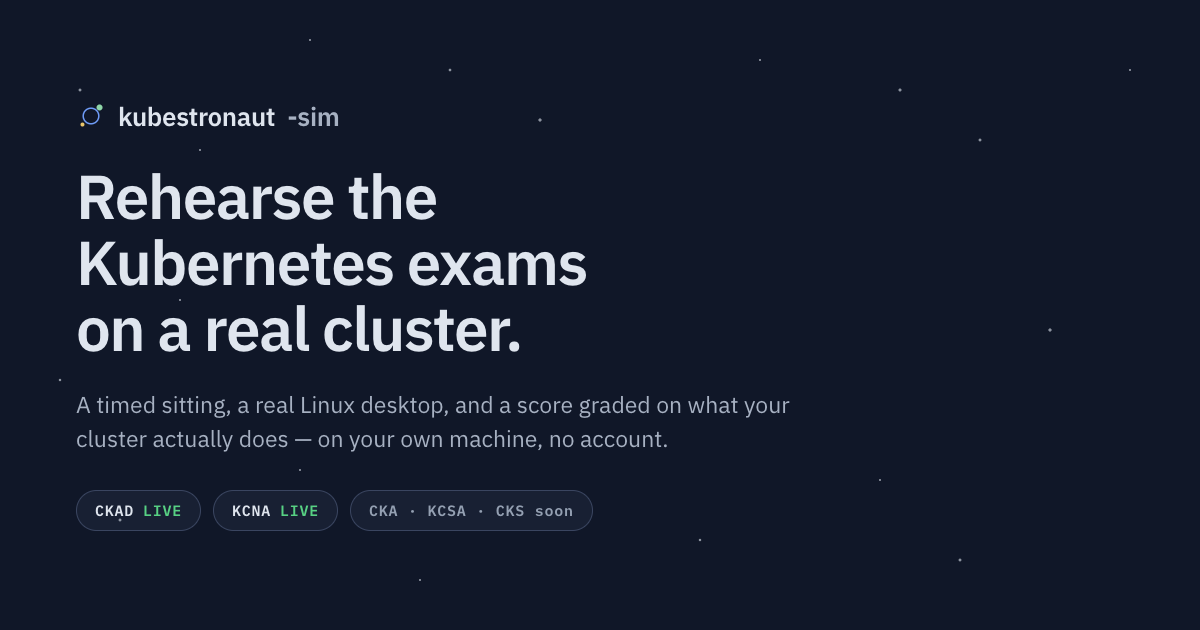
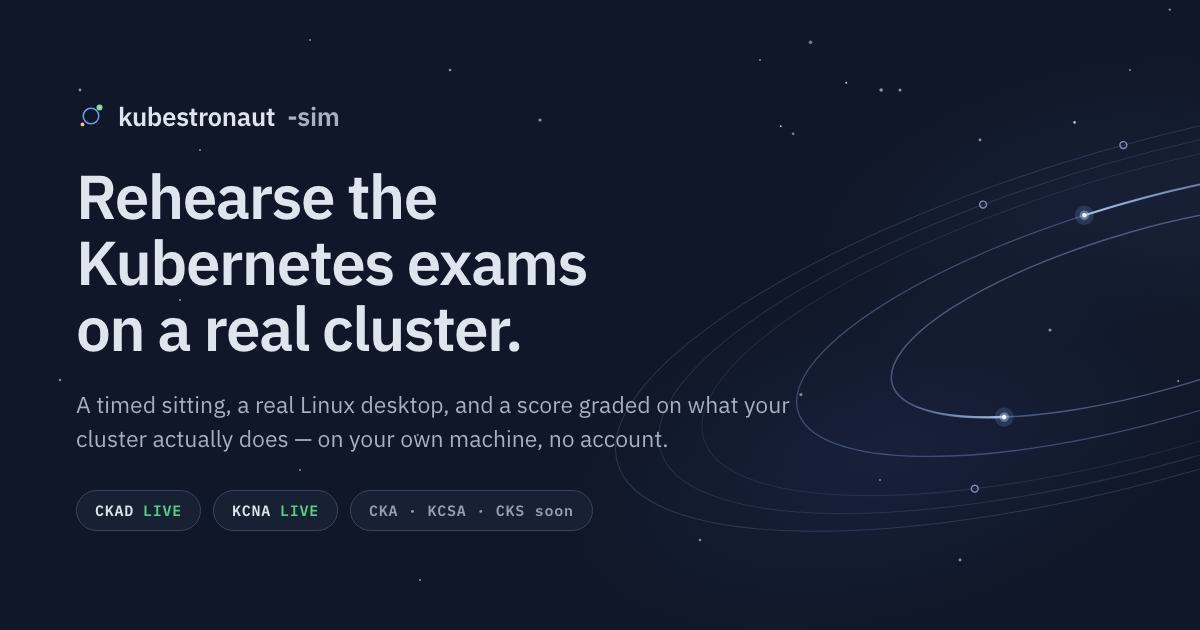
site: draw the orbit into the og card, and script its rebuild

diff --git a/site/og.html b/site/og.html
@@ -16,6 +16,8 @@
         -webkit-font-smoothing: antialiased;
       }
       .og-stars { position: absolute; inset: 0; fill: var(--star); }
+      .og-orbit { position: absolute; top: -95px; right: -420px; width: 1280px; height: auto; z-index: 0; }
+      .og-mark, .og-title, .og-desc, .og-chips { position: relative; z-index: 1; }
       .og-mark { display: flex; align-items: center; gap: 12px;
         font-size: 26px; font-weight: 600; letter-spacing: -0.015em; color: var(--text); }
       .og-mark span { color: var(--secondary); }
@@ -46,6 +48,7 @@
         <circle cx="900" cy="90" r="1.5"/><circle cx="60" cy="380" r="1.2"/>
         <circle cx="960" cy="560" r="1.4"/><circle cx="300" cy="470" r="1"/>
       </svg>
+      <img class="og-orbit" src="og-orbit.svg" alt="" width="1280" height="789" />
       <div class="og-mark">
         <img src="favicon.svg" alt="" width="30" height="30" />
         kubestronaut<span>-sim</span>

diff --git a/site/index.html b/site/index.html
@@ -29,7 +29,7 @@
     <meta property="og:image:height" content="630" />
     <meta
       property="og:image:alt"
-      content="kubestronaut-sim. Rehearse the Kubernetes exams on a real cluster. CKAD and KCNA banks are live; CKA, KCSA and CKS are in the catalog as coming soon."
+      content="kubestronaut-sim. Rehearse the Kubernetes exams on a real cluster. Five tilted orbits circle the wordmark — CKAD and KCNA lit and live, CKA, KCSA and CKS still dark and coming soon."
     />
     <meta name="twitter:card" content="summary_large_image" />
 
